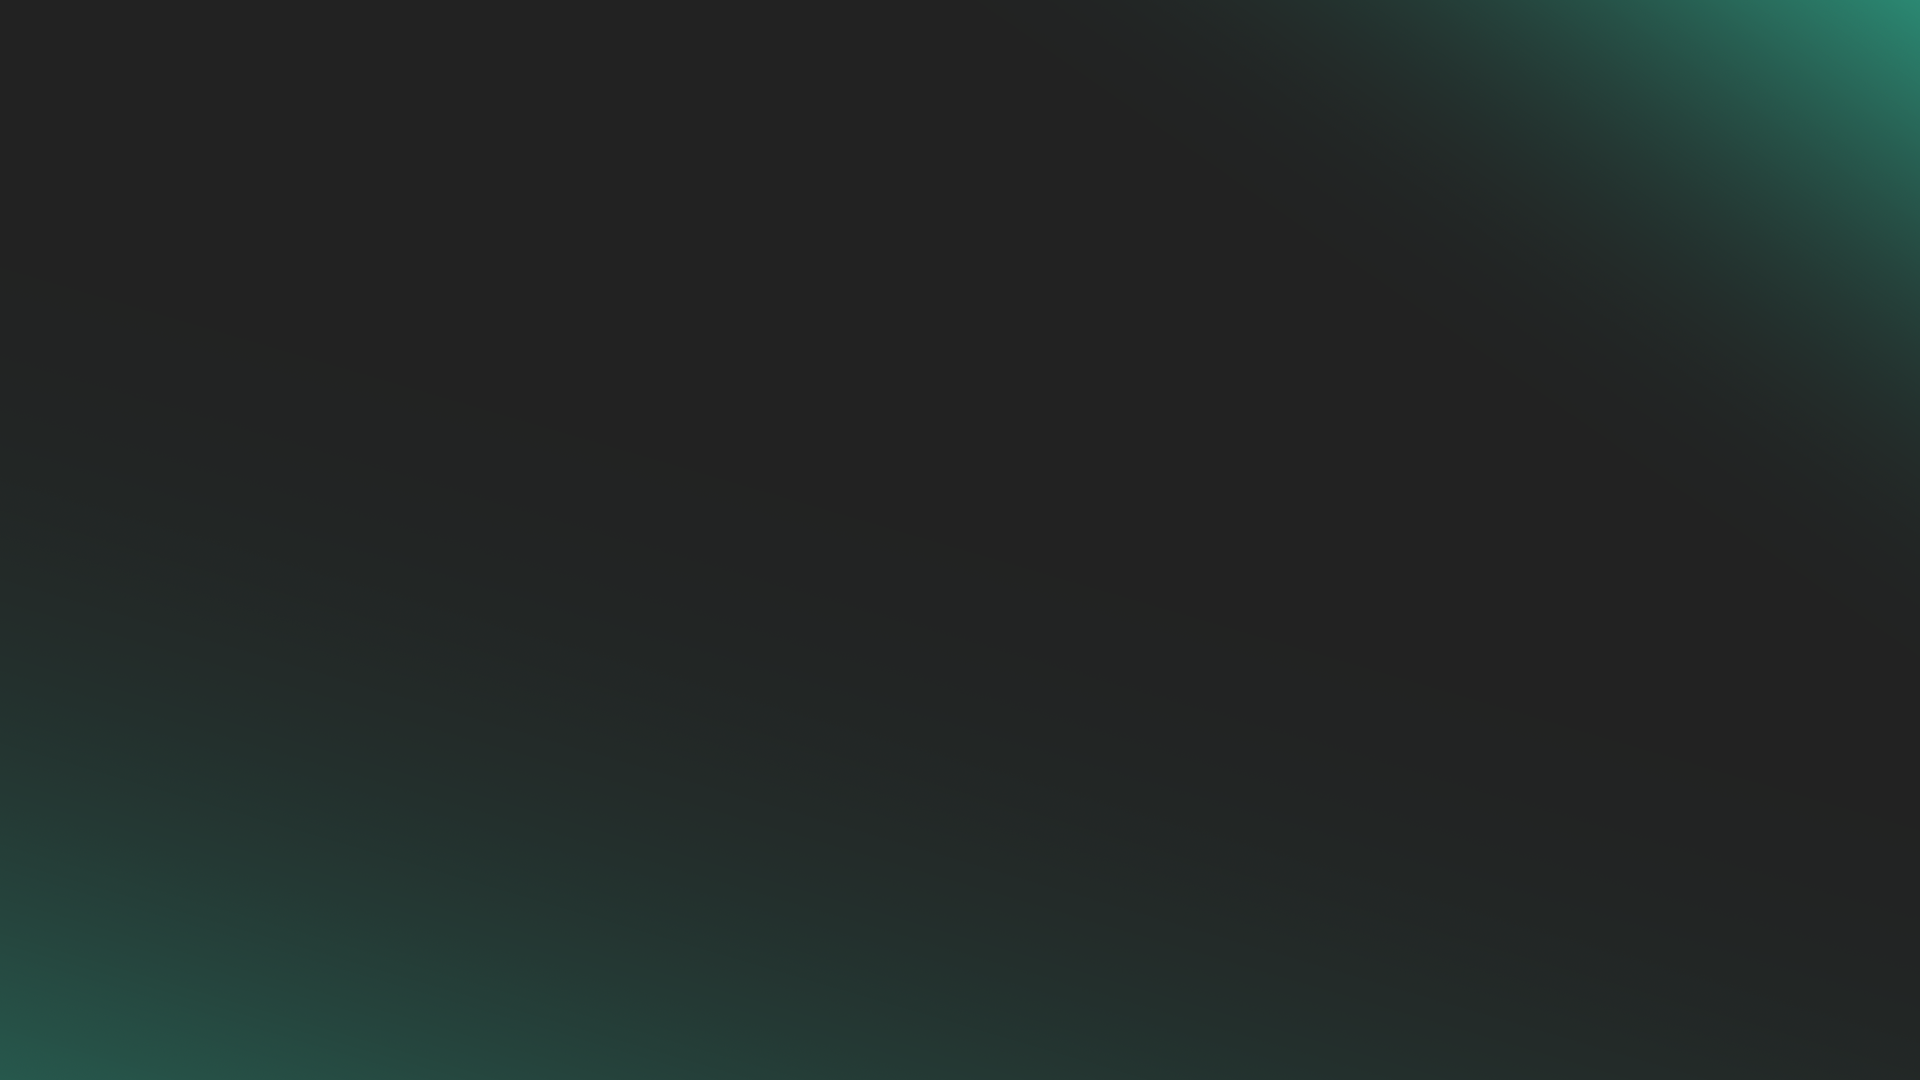
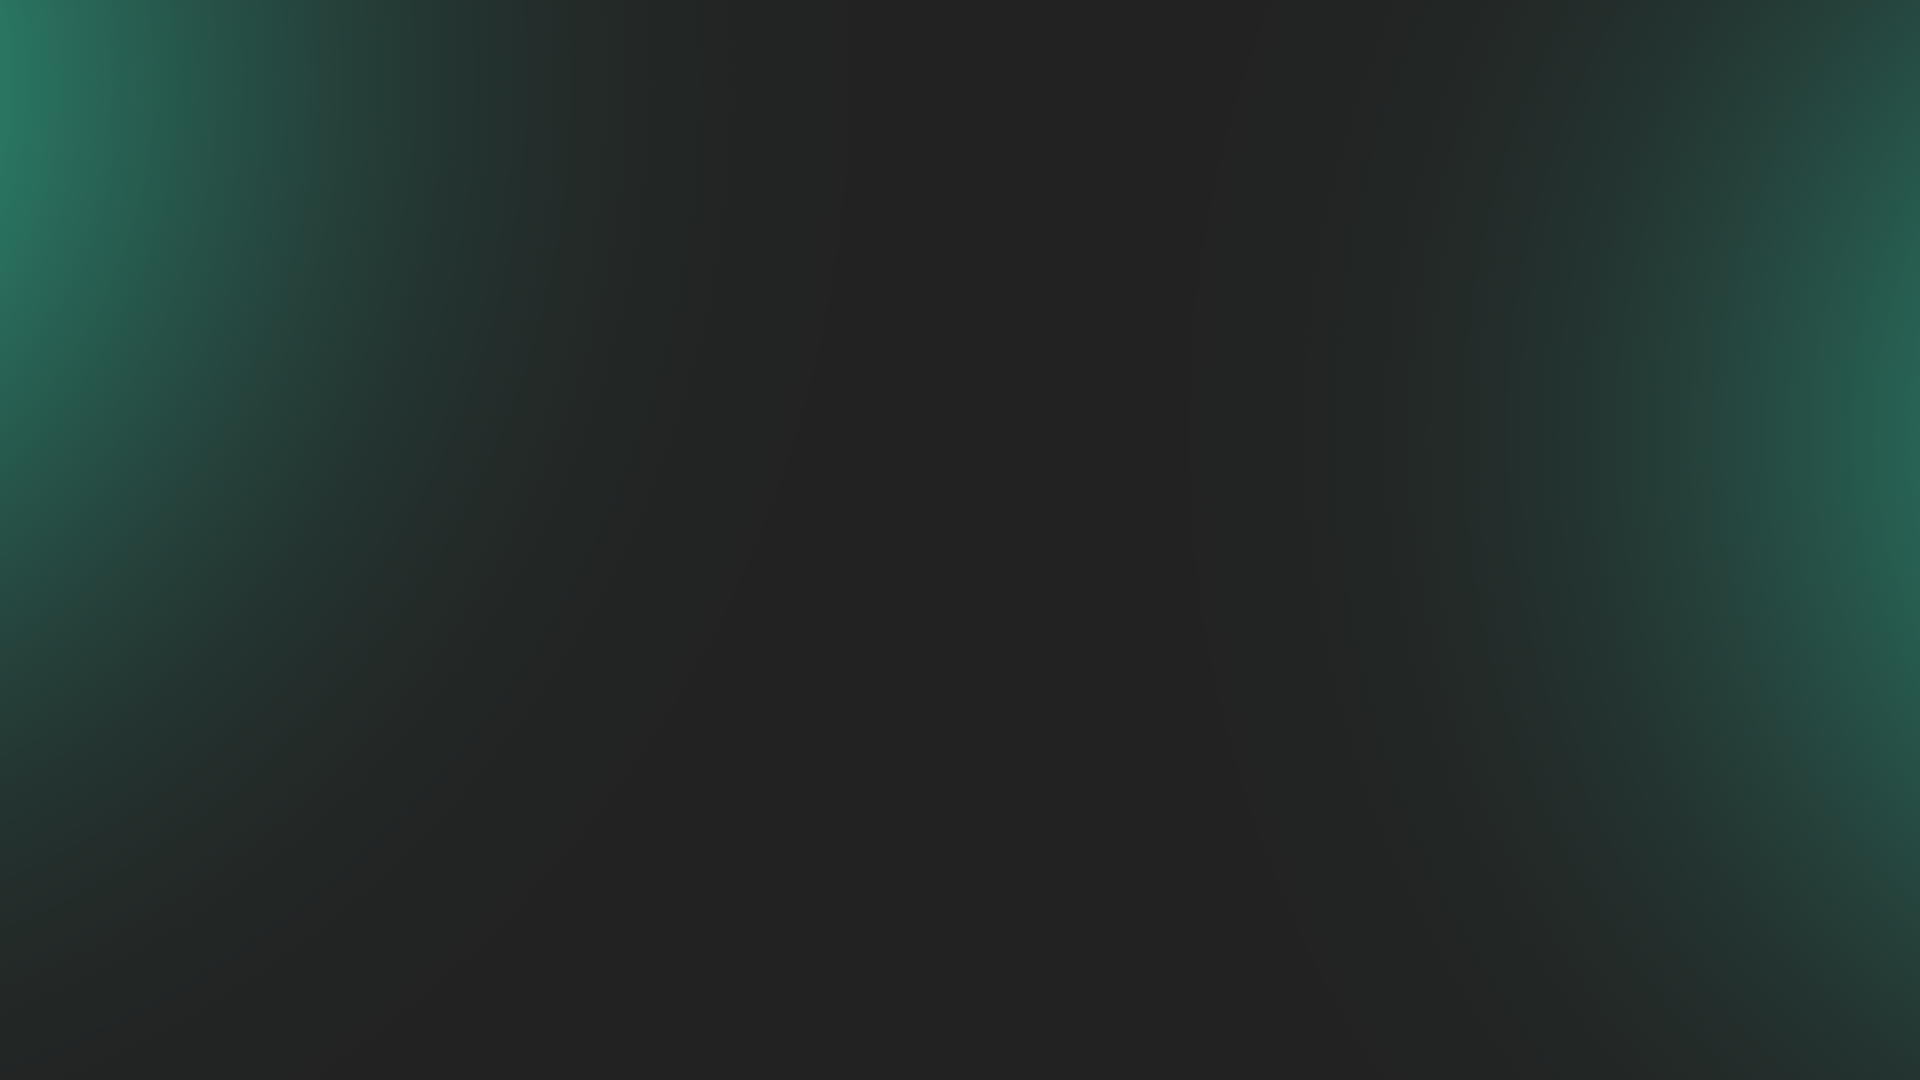
Refactor code structure for improved readability and maintainability

diff --git a/src/pages/aboutScreen/contentAbout.tsx b/src/pages/aboutScreen/contentAbout.tsx
@@ -1,16 +1,18 @@
-import Header from "../../components/Header";
+// import Header from "../../components/Header";
+import HeaderHome from "../../components/HeaderHome";
 import LogoCQ from "../../components/LogoCQ";
 
 export default function ContentAbout() {
   return (
     <div className="w-screen h-screen flex items-center justify-center">
       <div className="absolute top-[2%] left-0 z-100 w-full justify-center items-center flex ">
-        <Header />
+        {/* <Header /> */}
+        <HeaderHome />
       </div>
       <div className="absolute flex items-center justify-center">
         <div className="w-1/2">
-          <div className="flex flex-col 2xl:gap-15 gap-5">
-            <div className="flex flex-col items-start justify-center w-[60%] border-r-3 py-7 pr-10 border-[#2ea98c] slideToRight">
+          <div className="flex flex-col 2xl:gap-15 gap-12">
+            <div className="flex flex-col items-start justify-center w-[60%]  py-3  2xl:pr-10 border-[#2ea98c] border-r-3 slideToRight">
               <h1 className="primaryColor font-bold text-lg 2xl:text-xl mb-5">
                 O que é a <br />
                 CondingQuest?
@@ -24,7 +26,7 @@ export default function ContentAbout() {
                 recompensador.
               </p>
             </div>
-            <div className="flex flex-col items-start justify-center w-[60%]  2xl:w-[50%] relative -right-[30%] slideToLeft">
+            <div className="flex flex-col items-start justify-center w-[60%]  relative -right-[25%] slideToLeft">
               <h1 className="primaryColor font-bold 2xl:text-lg">
                 Uma Jornada Gamificada
               </h1>
@@ -39,19 +41,27 @@ export default function ContentAbout() {
             </div>
           </div>
         </div>
-        <div className="hidden 2xl:flex animationFadeIn2">
-          <LogoCQ size={412} />
+        <div className="hidden 2xl:flex animationFadeIn2 glasseffect">
+          <LogoCQ size={352} />
         </div>
-        <div className="flex 2xl:hidden animationFadeIn2">
-          <LogoCQ size={312} />
+        <div className="flex 2xl:hidden animationFadeIn2 glasseffect">
+          <LogoCQ size={252} />
         </div>
       </div>
-      <span className="primaryColor font-bold 2xl:text-base text-sm -rotate-90 absolute right-0 bottom-[10%] slideToTop">
+      <span className="primaryColor font-bold 2xl:text-base text-xs -rotate-90 absolute right-0 bottom-[10%] slideToTop">
         CodingQuest
       </span>
-      <div className="absolute flex w-screen h-screen gap-10 justify-start items-end bottom-[5%] left-[5%] slideToBottom">
-        <div className="bgPrimaryColor w-[5%] h-[0.5%]"></div>
-        <div className="bgPrimaryColor w-[5%] h-[0.5%]"></div>
+      <div className="absolute flex w-screen h-screen gap-10 justify-start items-end bottom-[5%] left-[5%] slideToRight">
+        <div className="bgPrimaryColor w-[5%] h-[0.25%]"></div>
+        <div className="bgPrimaryColor w-[5%] h-[0.25%]"></div>
+      </div>
+      <div className="absolute flex w-screen h-screen gap-10 justify-start items-end bottom-[5%] left-[30%] slideToRight">
+        <div className="bgPrimaryColor w-[5%] h-[0.25%]"></div>
+        <div className="bgPrimaryColor w-[5%] h-[0.25%]"></div>
+      </div>
+      <div className="absolute flex w-screen h-screen gap-10 justify-start items-end bottom-[5%] left-[55%] slideToRight">
+        <div className="bgPrimaryColor w-[5%] h-[0.25%]"></div>
+        <div className="bgPrimaryColor w-[5%] h-[0.25%]"></div>
       </div>
     </div>
   );

diff --git a/src/components/FloatingSquares.tsx b/src/components/FloatingSquares.tsx
@@ -14,14 +14,14 @@ import KotlinIcon from "./icons/iconsLanguages/KotlinIcon";
 
 const squarePositions: SquareData[] = [
   { x: 900, y: 200, width: 90, height: 90, icon: <JavaIcon size={50} /> },
-  { x: 1200, y: 600, width: 90, height: 90, icon: <CIcon size={50} /> },
+  { x: 1200, y: 600, width: 90, height: 90, icon: <RubyIcon size={50} /> },
   { x: 1600, y: 300, width: 90, height: 90, icon: <PythonIcon size={50} /> },
   { x: 200, y: 300, width: 90, height: 90, icon: <JSIcon size={50} /> },
   { x: 500, y: 300, width: 70, height: 70, className: "squareOp50" },
   { x: 350, y: 830, width: 90, height: 90, icon: <DartIcon size={50} /> },
   { x: 1400, y: 500, width: 60, height: 60, icon: <KotlinIcon size={30} /> },
   { x: 600, y: 500, width: 60, height: 60, icon: <GOIcon size={30} /> },
-  { x: 1350, y: 100, width: 60, height: 60, icon: <RubyIcon size={30} /> },
+  { x: 1350, y: 100, width: 60, height: 60, icon: <CIcon size={30} /> },
   { x: 1150, y: 400, width: 70, height: 70, className: "squareOp50" },
   {
     x: 1750,

diff --git a/src/components/HeaderHome.tsx b/src/components/HeaderHome.tsx
@@ -3,7 +3,7 @@ import LogoCQ from "./LogoCQ";
 
 export default function HeaderHome() {
   return (
-    <header className="w-[93%] h-16 pb-2 bg-primaryColor flex items-center justify-between  rounded-lg shadow-xl">
+    <header className="w-[93%] h-16 pb-2 bg-primaryColor flex items-center justify-between rounded-lg shadow-xl">
       <Link to={"/"} className="flex items-center">
         <figure className="flex items-center space-x-3 ">
           <LogoCQ size={50} />
@@ -29,11 +29,6 @@ export default function HeaderHome() {
         <Link to={"/"}>
           <button className="text-white underlineAnimado cursor-pointer">
             Quem pode Jogar?
-          </button>
-        </Link>
-        <Link to={"/"}>
-          <button className="text-white underlineAnimado cursor-pointer">
-            Contato
           </button>
         </Link>
         <button className="text-white underlineAnimado cursor-pointer">

diff --git a/src/pages/aboutScreen/index.css b/src/pages/aboutScreen/index.css
@@ -1,14 +1,17 @@
 @import "tailwindcss";
 .glasseffect {
-  background: rgba(0, 0, 0, 0.1);
+  background: rgba(30, 30, 30, 0.1);
   border-radius: 16px;
-  box-shadow: 8px 8px 10px rgba(0, 0, 0, 0.5);
-  backdrop-filter: blur(5px);
-  -webkit-backdrop-filter: blur(5px);
+  box-shadow: 8px 8px 10px rgba(0, 0, 0, 0.1);
+  backdrop-filter: blur(20px);
 }
 
 .backgroundAbout {
-  background-image: url("../../assets/backgrounds/backgroundAbout.png");
+  background-image: url("../../assets/backgrounds/background.png");
   background-size: cover;
   background-repeat: no-repeat;
+}
+
+.teste{
+   transform: perspective(500px) rotatex(40deg);
 }

diff --git a/src/pages/aboutScreen/index.tsx b/src/pages/aboutScreen/index.tsx
@@ -9,12 +9,12 @@ const AboutScreen = () => {
     // Simular espera de 1s para mostrar o segundo
     setTimeout(() => {
       setSecondRender(true);
-    }, 500);
+    }, 0);
   }, []);
   return (
     <div className="w-screen h-screen flex justify-center items-center bg-[#222222]  backgroundAbout">
       <div className="top-0 left-0 absolute z-50 h-screen w-screen flex justify-center items-center backgroundPixelado"></div>
-      ;{secondRender && <ContentAbout />}
+      {secondRender && <ContentAbout />}
     </div>
   );
 };

diff --git a/src/components/Header.tsx b/src/components/Header.tsx
@@ -36,11 +36,6 @@ export default function Header() {
             Quem pode Jogar?
           </button>
         </Link>
-        <Link to={"/"}>
-          <button className="text-white underlineAnimado cursor-pointer">
-            Contato
-          </button>
-        </Link>
         <button className="text-white underlineAnimado cursor-pointer">
           Desenvolvedores
         </button>
